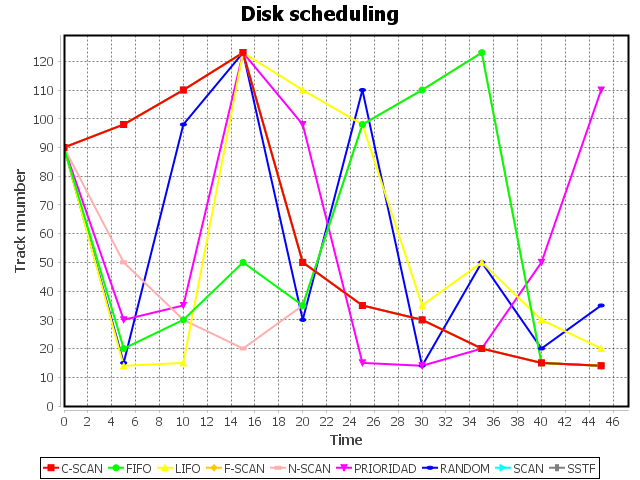
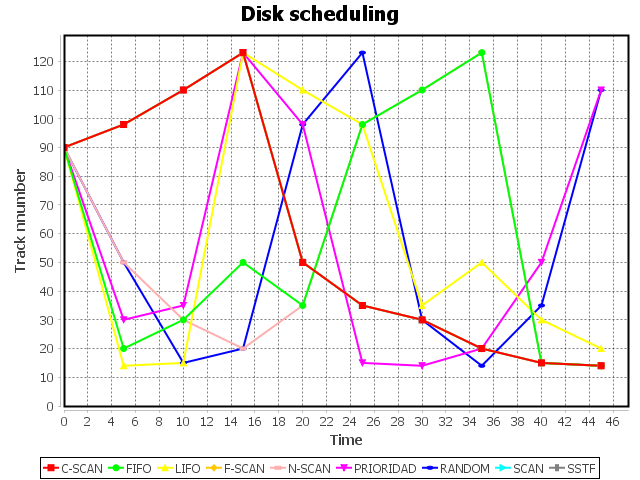
Grafico Arreglado, falta arreglar el GraficoMultiline *facil*

diff --git a/DISK_SCHEDULING/src/GUI/Grafico.java b/DISK_SCHEDULING/src/GUI/Grafico.java
@@ -146,11 +146,10 @@ public class Grafico extends javax.swing.JFrame{
         Integer[] LIFOPRI = Control.lifoPriTracksEstadisticas.toArray(new Integer[Control.lifoPriTracksEstadisticas.size()]);
         
         Integer[] DisCSCAN = Control.cscanDistancias.toArray(new Integer[Control.cscanDistancias.size()]);
-        System.out.println(Arrays.toString(DisCSCAN));
         Integer[] DisFIFO = Control.fifoDistancias.toArray(new Integer[Control.fifoDistancias.size()]);
         Integer[] DisLIFO = Control.lifoDistancias.toArray(new Integer[Control.lifoDistancias.size()]);
         Integer[] DisFSCAN = Control.fscanDistancias.toArray(new Integer[Control.fscanDistancias.size()]);
-        Integer[] DisNSCAN = Control.nscanDistancias.toArray(new Integer[Control.nscanTracks.size()]);
+        Integer[] DisNSCAN = Control.nscanDistancias.toArray(new Integer[Control.nscanDistancias.size()]);
         Integer[] DisPRI = Control.prioridadDistancias.toArray(new Integer[Control.prioridadDistancias.size()]);
         Integer[] DisRAM = Control.randomDistancias.toArray(new Integer[Control.randomDistancias.size()]);
         Integer[] DisSCAN = Control.scanDistancias.toArray(new Integer[Control.scanDistancias.size()]);
@@ -174,60 +173,134 @@ public class Grafico extends javax.swing.JFrame{
             for (Integer arraydis1 : DisCSCAN)
             series1.add(arraydis1, array1);
         }*/
-        series1.add((Integer) 0, CSCAN[0]);
+        if(CSCAN.length != 0)
+            series1.add((Integer) 0, CSCAN[0]);
+        int acu = 0;
         for (int i = 0; i < DisCSCAN.length; i++){
-            series1.add(DisCSCAN[i], CSCAN[i+1]);
+            acu += DisCSCAN[i];
+            series1.add(acu, CSCAN[i+1]);
         }
         
-        for (Integer array2 : FIFO) {
+        /*for (Integer array2 : FIFO) {
             for (Integer arraydis2 : DisFIFO)
             series2.add(arraydis2, array2);
+        }*/
+        if(FIFO.length != 0)
+            series2.add((Integer) 0, FIFO[0]);
+        acu = 0;
+        for (int i = 0; i < DisFIFO.length; i++){
+            acu += DisFIFO[i];
+            series2.add(acu, FIFO[i+1]);
         }
        
-        for (Integer array3 : LIFO) {
+        /*for (Integer array3 : LIFO) {
             for (Integer arraydis3 : DisLIFO)
             series3.add(arraydis3, array3);
+        }*/
+        if(LIFO.length != 0)
+            series3.add((Integer) 0, LIFO[0]);
+        acu = 0;
+        for (int i = 0; i < DisLIFO.length; i++){
+            acu += DisLIFO[i];
+            series3.add(acu, LIFO[i+1]);
         }
-        
+        /*
         for (Integer array4 : FSCAN) {
             for (Integer arraydis4 : DisFSCAN)
             series4.add(arraydis4, array4);
+        }*/
+        if(FSCAN.length != 0)
+            series4.add((Integer) 0, FSCAN[0]);
+        acu = 0;
+        for (int i = 0; i < DisFSCAN.length; i++){
+            acu += DisFSCAN[i];
+            series4.add(acu, FSCAN[i+1]);
         }
+        
   
-        for (Integer array5 : NSCAN) {
+        /*for (Integer array5 : NSCAN) {
             for (Integer arraydis5 : DisNSCAN)
             series5.add(arraydis5, array5);
+        }*/
+        if(NSCAN.length != 0)
+            series5.add((Integer) 0, NSCAN[0]);
+        acu = 0;
+        for (int i = 0; i < DisNSCAN.length; i++){
+            acu += DisNSCAN[i];
+            series5.add(acu, NSCAN[i+1]);
         }
-    
+        /*
         for (Integer array6 : PRI) {
             for (Integer arraydis6 : DisPRI)
             series6.add(arraydis6, array6);
+        }*/
+        if(PRI.length != 0)
+            series6.add((Integer) 0, PRI[0]);
+        acu = 0;
+        for (int i = 0; i < DisPRI.length; i++){
+            acu += DisPRI[i];
+            series6.add(acu, PRI[i+1]);
         }
-
+        /*
         for (Integer array7 : RAM) {
             for (Integer arraydis7 : DisRAM)
             series7.add(arraydis7, array7);
+        }*/
+        if(RAM.length != 0)
+            series7.add((Integer) 0, RAM[0]);
+        acu = 0;
+        for (int i = 0; i < DisRAM.length; i++){
+            acu += DisRAM[i];
+            series7.add(acu, RAM[i+1]);
         }
 
-        for (Integer array8 : SCAN) {
+        /*for (Integer array8 : SCAN) {
             for (Integer arraydis8 : DisSCAN)
             series8.add(arraydis8, array8);
+        }*/
+        if(SCAN.length != 0)
+            series8.add((Integer) 0, SCAN[0]);
+        acu = 0;
+        for (int i = 0; i < DisSCAN.length; i++){
+            acu += DisSCAN[i];
+            series8.add(acu, SCAN[i+1]);
         }
 
-        for (Integer array9 : SSTF) {
+        /*for (Integer array9 : SSTF) {
             for (Integer arraydis9 : DisSSTF)
             series9.add(arraydis9, array9);
+        }*/
+        if(SSTF.length != 0)
+            series9.add((Integer) 0, SSTF[0]);
+        acu = 0;
+        for (int i = 0; i < DisSSTF.length; i++){
+            acu += DisSSTF[i];
+            series9.add(acu, SSTF[i+1]);
         }
         
-        for (Integer array10 : FIFOPRI) {
+        /*for (Integer array10 : FIFOPRI) {
             for (Integer arraydis10 : DisFIFOPRI)
             series10.add(arraydis10, array10);
+        }*/
+        if(FIFOPRI.length != 0)
+            series10.add((Integer) 0, FIFOPRI[0]);
+        acu = 0;
+        for (int i = 0; i < DisFIFOPRI.length; i++){
+            acu += DisFIFOPRI[i];
+            series10.add(acu, FIFOPRI[i+1]);
         }
         
-        for (Integer array11 : LIFOPRI) {
+        /*for (Integer array11 : LIFOPRI) {
             for (Integer arraydis11 : DisLIFOPRI)
             series11.add(arraydis11, array11);
            
+        }*/
+        if(LIFOPRI.length != 0)
+            series11.add((Integer) 0, LIFOPRI[0]);
+        acu = 0;
+        for (int i = 0; i < DisLIFOPRI.length; i++){
+            acu += DisLIFOPRI[i];
+            series11.add(acu, LIFOPRI[i+1]);
         }
        
         XYSeriesCollection dataset = new XYSeriesCollection();
